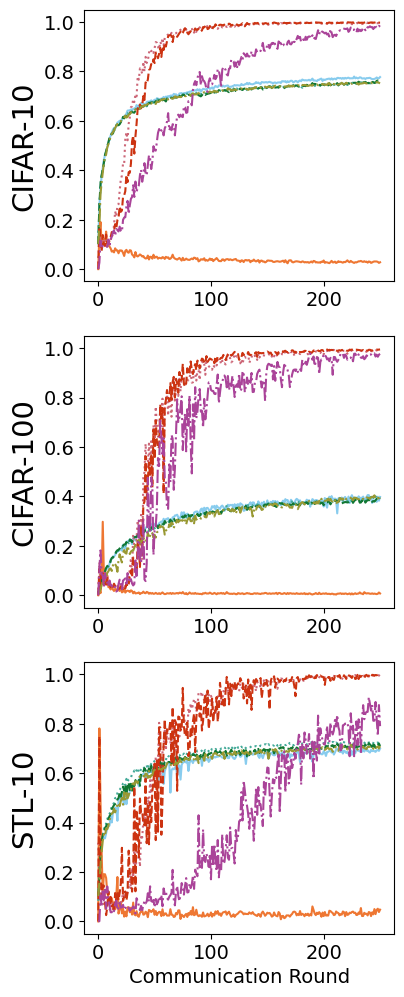
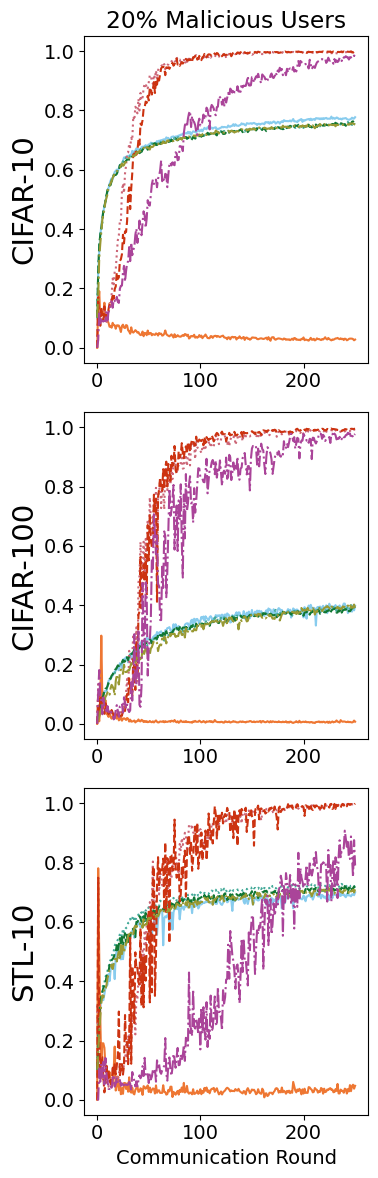
update experimental figures

diff --git a/make_visuals/main_threshold.py b/make_visuals/main_threshold.py
@@ -1,4 +1,3 @@
-""" Packages """
 # base
 import argparse
 import numpy as np
@@ -29,6 +28,9 @@ def get_args():
     parser.add_argument('--n_malicious', default=1, type=int)
     parser.add_argument('--dba', default=0, type=int)
 
+    parser.add_argument('--d_scale', default=2., type=float)
+    parser.add_argument('--d_smooth', default=False, type=bool)
+
     parser.add_argument('--neuro', default=0, type=int)
     parser.add_argument('--neuro_p', default=0.1, type=float)
 
@@ -44,7 +46,7 @@ def get_args():
 
 def plot_threshold(
     data_val, data_user,  # ------- class distances for all users
-    d_rounds,  # ------------------ output plot zoom
+    d_rounds, d_smooth,  # ------------------ output plot zoom
     m_start, n_malicious,  # ------ attack setting control
     path, suffix='',  # ----------- input and output location
     show=1  # --------------------- display plots?
@@ -72,7 +74,12 @@ def plot_threshold(
 
     data_val_scaled = data_val_values * scaling
     data_val_scaled_max = data_val_scaled.max(axis=1)
-    data_val_scaled_max_thresh = lu.min_mean_smooth(data_val_scaled_max, scale=2)
+
+    if not d_smooth:
+        data_val_scaled_max_thresh = lu.min_mean_smooth(data_val_scaled_max, scale=2)
+    else:
+        data_val_scaled_max_thresh = 2 * data_val_scaled_max
+
     data_val_scaled_max_thresh = np.minimum(data_val_scaled_max_thresh, 1)
 
     """ User Manipulation
@@ -226,7 +233,11 @@ def main():
         ('distributed' if args.dba else 'centralized'),
         f'alpha{args.alpha}--alpha_val{args.alpha_val}'
     )
-    suffix = f'--n_malicious{args.n_malicious}'
+    suffix = (
+        f'--n_malicious{args.n_malicious}'
+        + (f'--d_scale{args.d_scale}' if args.d_scale != 2. else '')
+        + ('--no_smooth' if args.d_smooth else '')
+    )
 
     if not os.path.exists(os.path.join(path, 'visuals')):
         os.makedirs(os.path.join(path, 'visuals'))
@@ -238,31 +249,34 @@ def main():
         f'n_rounds{args.n_rounds}--d_start1--m_start1--n_malicious{args.n_malicious}'
     )
 
-    temp_val = np.load(
-        os.path.join(
-            subdir,
-            'data',
-            (
+    path_val = os.path.join(
+        subdir,
+        'data',
+        (
                 'output_val_ks'
                 + (f'--neuro_p{args.neuro_p}' if args.neuro else '')
+                + ('--no_smooth' if args.d_smooth else '')
                 + '.npy'
-            ),
-        ), allow_pickle=True
+        ),
     )
-    temp_user = np.load(
-        os.path.join(
-            subdir,
-            (
+    print(path_val)
+    temp_val = np.load(path_val, allow_pickle = True)
+
+    path_user = os.path.join(
+        subdir,
+        (
                 'data/output_user_ks'
                 + (f'--neuro_p{args.neuro_p}' if args.neuro else '')
+                + (f'--d_scale{args.d_scale}' if args.d_scale != 2. else '')
+                + ('--no_smooth' if args.d_smooth else '')
                 + '.npy'
-            )
-        ), allow_pickle=True
+        )
     )
+    temp_user = np.load(path_user, allow_pickle = True)
 
     plot_threshold(
         temp_val, temp_user,
-        args.d_rounds,
+        args.d_rounds, args.d_smooth,
         args.m_start, args.n_malicious,
         path, suffix,
         args.show

diff --git a/make_visuals/main_accuracy_single.py b/make_visuals/main_accuracy_single.py
@@ -20,6 +20,8 @@ def get_args():
     parser.add_argument('--n_classes', default=10, type=int)
     parser.add_argument('--resnet', default=1, type=int)
 
+    parser.add_argument('--only', default=False, type=bool)
+
     parser.add_argument('--alpha', default=10000, type=int)
     parser.add_argument('--alpha_val', default=10000, type=int)
     parser.add_argument('--n_val_data', default=None, type=int)
@@ -57,6 +59,7 @@ def main():
         + (f'--alpha_val{args.alpha_val}' if args.alpha_val != 10000 else '')
         + ('--no_smooth' if not args.d_smooth else '')
         + ('--vgg' if not args.resnet else '')
+        + ('--only' if args.only else '')
     )
 
     # hyper-parameters
@@ -79,6 +82,9 @@ def main():
     ]
 
     methods = ('tag', 'base/mean', 'base/median', 'base/trust')
+    if args.only:
+        methods = list(methods[0])
+
     file_suffices = (
         (
             (
@@ -181,35 +187,36 @@ def main():
         pois_lines.append(pois_line)
 
     # create legend
-    out_methods = ['Trusted Aggregation', 'Coordinate Median', 'Coordinate Trim-Mean', 'FLTrust']
-    l1 = plt.legend(
-        clean_lines,
-        out_methods,
-        title='Classification Accuracy',
-        bbox_to_anchor=(1.04, 1.04),
-        loc='upper left'
-    )
-    ax = plt.gca().add_artist(l1)
+    if not args.only:
+        out_methods = ['Trusted Aggregation', 'Coordinate Median', 'Coordinate Trim-Mean', 'FLTrust']
+        l1 = plt.legend(
+            clean_lines,
+            out_methods,
+            title='Classification Accuracy',
+            bbox_to_anchor=(1.04, 1.04),
+            loc='upper left'
+        )
+        ax = plt.gca().add_artist(l1)
 
-    """
-    for i, c in enumerate(cool_colors):
-        l1.legendHandles[i].set_color(c)
-        l1.legendHandles[i].set_linestyle(line_styles[i])
-    """
+        """
+        for i, c in enumerate(cool_colors):
+            l1.legendHandles[i].set_color(c)
+            l1.legendHandles[i].set_linestyle(line_styles[i])
+        """
 
-    l2 = plt.legend(
-        pois_lines,
-        out_methods,
-        title='Attack Success Rate',
-        bbox_to_anchor=(1.04, -0.04),
-        loc='lower left'
-    )
+        l2 = plt.legend(
+            pois_lines,
+            out_methods,
+            title='Attack Success Rate',
+            bbox_to_anchor=(1.04, -0.04),
+            loc='lower left'
+        )
 
-    """
-    for i, c in enumerate(warm_colors):
-        l2.legendHandles[i].set_color(c)
-        l2.legendHandles[i].set_linestyle(line_styles[i])
-    """
+        """
+        for i, c in enumerate(warm_colors):
+            l2.legendHandles[i].set_color(c)
+            l2.legendHandles[i].set_linestyle(line_styles[i])
+        """
 
     if args.show:
         plt.show()

diff --git a/make_visuals/t_main_accuracy_clean.py b/make_visuals/t_main_accuracy_clean.py
@@ -85,10 +85,17 @@ def main():
 
     """ Global Accuracy """
     fig, axarr = plt.subplots(nrows=len(data), figsize=(4, len(data)*4), sharey=True)
+
     for i, (d, out_d) in enumerate(zip(data, out_data)):
         plt.sca(axarr[i])
         plt.ylabel(out_d, fontsize=1.5*args.font_size)
         plt.ylim(-0.05, 1.05)
+
+        if i == 0:
+            plt.title(
+                f'{(10 * args.n_malicious):d}% Malicious Users'
+                + (', NT' if args.neuro else '')
+            )
         if (i + 1) == len(out_data):
             plt.xlabel('Communication Round')
 
@@ -118,7 +125,9 @@ def main():
         for j, method in enumerate(methods):
 
             path = os.path.join(
-                f'{Path.home()}/TAG',
+                f'{Path.home()}',
+                'Documents',
+                'TAG',
                 d,
                 ('neuro' if args.neuro else 'classic'),
                 method,
@@ -177,6 +186,7 @@ def main():
         l2.legendHandles[i].set_linestyle(line_styles[i])
     """
 
+    plt.tight_layout()
     plt.savefig(
         os.path.join(out_path, f't_accuracy_clean{out_suffix}.png'),
         bbox_inches='tight'

diff --git a/make_visuals/t_main_accuracy_pois.py b/make_visuals/t_main_accuracy_pois.py
@@ -89,6 +89,12 @@ def main():
         plt.sca(axarr[i])
         plt.ylabel(out_d, fontsize=1.5*args.font_size)
         plt.ylim(-0.05, 1.05)
+
+        if i == 0:
+            plt.title(
+                f'{(10 * args.n_malicious):d}% Malicious Users'
+                + (', NT' if args.neuro else '')
+            )
         if (i + 1) == len(out_data):
             plt.xlabel('Communication Round')
 
@@ -119,7 +125,9 @@ def main():
         for j, method in enumerate(methods):
 
             path = os.path.join(
-                f'{Path.home()}/TAG',
+                f'{Path.home()}',
+                'Documents',
+                'TAG',
                 d,
                 ('neuro' if args.neuro else 'classic'),
                 method,
@@ -180,6 +188,7 @@ def main():
         l2.legendHandles[i].set_linestyle(line_styles[i])
     """
 
+    plt.tight_layout()
     plt.savefig(
         os.path.join(out_path, f't_accuracy_pois{out_suffix}.png'),
         bbox_inches='tight'

diff --git a/make_visuals/t_main_accuracy.py b/make_visuals/t_main_accuracy.py
@@ -85,6 +85,11 @@ def main():
 
     """ Global Accuracy """
     fig, axarr = plt.subplots(nrows=len(data), figsize=(4, len(data)*4), sharey=True)
+    fig.suptitle(
+        f'{(10 * args.n_malicious):d}% Malicious Users'
+        + (', NT' if args.neuro else '')
+    )
+
     for i, (d, out_d) in enumerate(zip(data, out_data)):
         plt.sca(axarr[i])
         plt.ylabel(out_d, fontsize=1.5*args.font_size)
